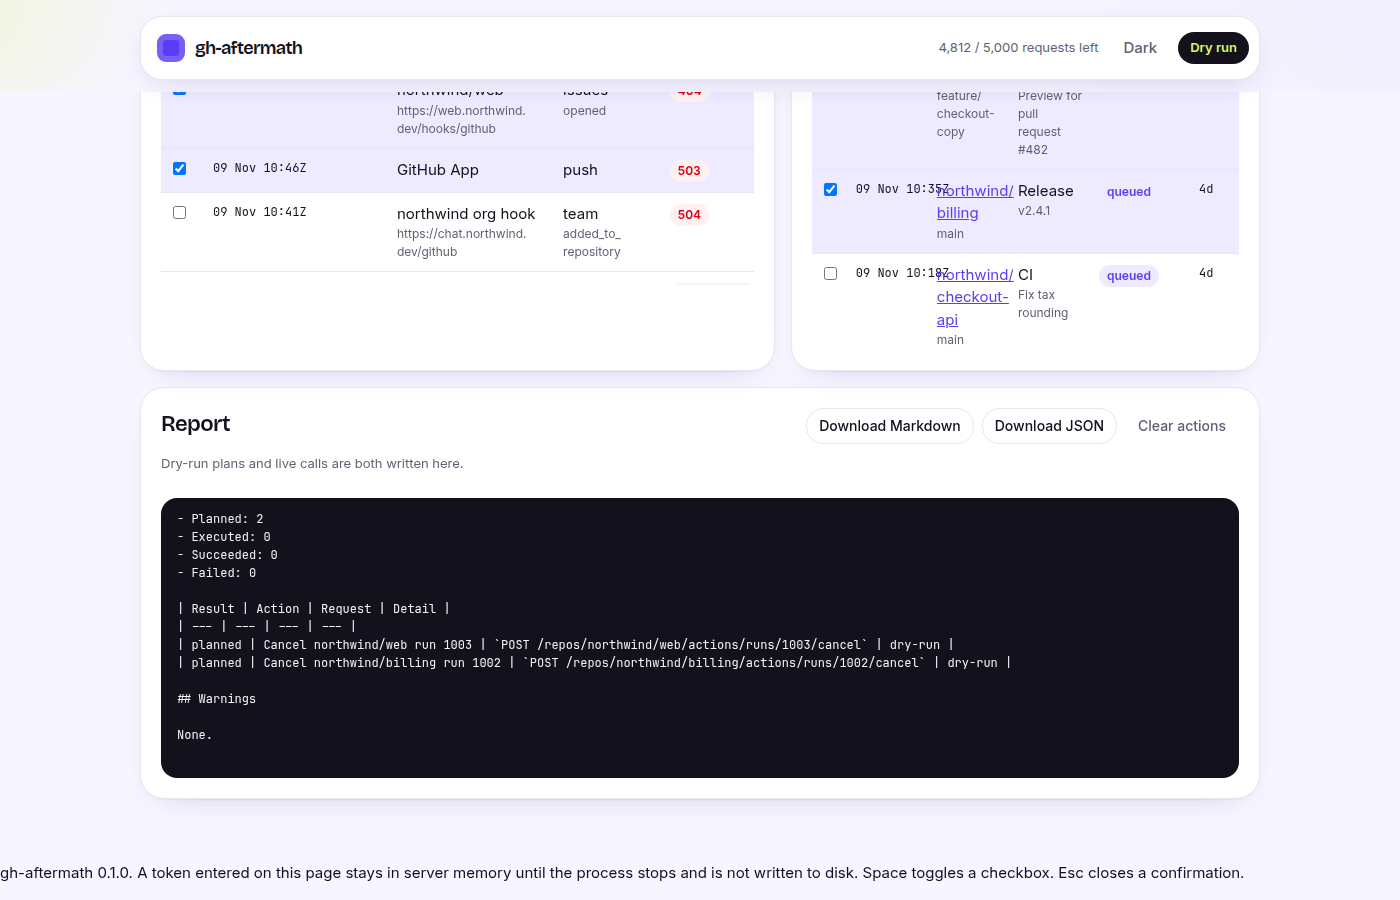
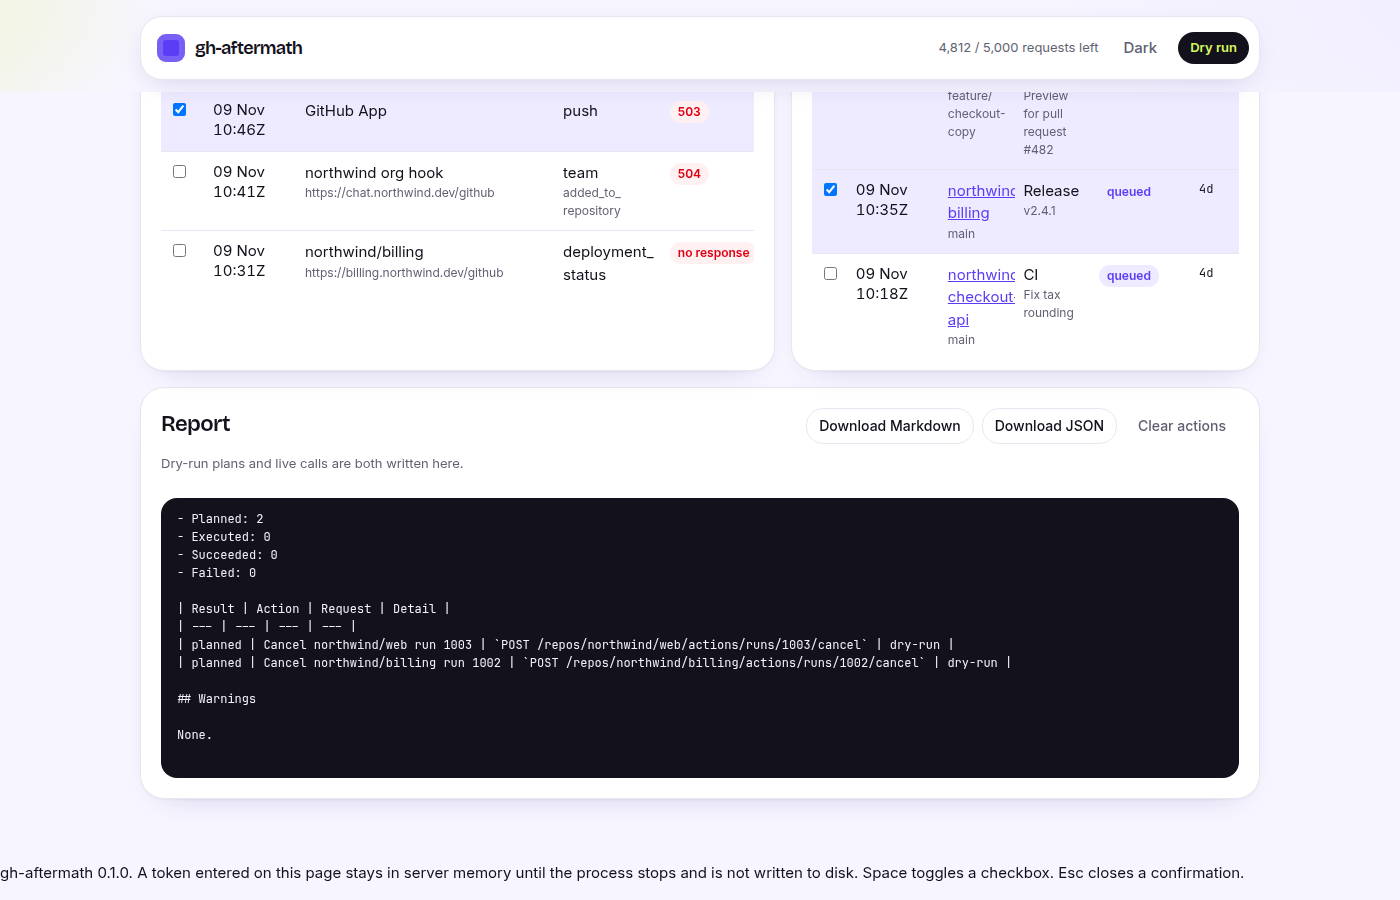
fix: keep the When column inside its cell
Stack the date and time on two lines and set a column width so the stamp no longer paints over the repository link. The stamp uses Inter's open zero.

diff --git a/src/ui/client.ts b/src/ui/client.ts
@@ -83,6 +83,17 @@ const clientProgram = `
     return formatUtcStamp(iso);
   }
 
+  function whenCell(iso) {
+    var stamp = formatTime(iso);
+    var split = stamp.lastIndexOf(" ");
+    var date = split === -1 ? stamp : stamp.slice(0, split);
+    var time = split === -1 ? "" : stamp.slice(split + 1);
+    return el("td", { className: "when" }, [
+      el("span", { className: "when-date", text: date }),
+      time ? el("span", { className: "when-time", text: time }) : null
+    ]);
+  }
+
   function formatAge(iso) {
     if (!iso) return "";
     var minutes = Math.max(0, Math.round((Date.now() - Date.parse(iso)) / 60000));
@@ -351,7 +362,7 @@ const clientProgram = `
       ]);
       var row = el("tr", { className: checked ? "selected" : "" }, [
         el("td", {}, [box]),
-        el("td", { className: "mono when", text: formatTime(delivery.deliveredAt) }),
+        whenCell(delivery.deliveredAt),
         el("td", {}, [
           el("span", { text: whereOf(delivery) }),
           delivery.targetUrl ? el("span", { className: "sub", text: softWrap(delivery.targetUrl) }) : null
@@ -400,7 +411,7 @@ const clientProgram = `
       var started = run.runStartedAt || run.createdAt;
       var link = el("a", { href: run.htmlUrl, target: "_blank", rel: "noreferrer", text: softWrap(run.owner + "/" + run.repo) });
       row.appendChild(el("td", {}, [box]));
-      row.appendChild(el("td", { className: "mono when", text: formatTime(started) }));
+      row.appendChild(whenCell(started));
       row.appendChild(el("td", {}, [link, el("span", { className: "sub", text: softWrap(run.headBranch || "") })]));
       row.appendChild(el("td", {}, [el("span", { text: softWrap(run.name) }), run.displayTitle && run.displayTitle !== run.name ? el("span", { className: "sub", text: softWrap(run.displayTitle) }) : null]));
       row.appendChild(el("td", {}, [el("span", { className: pillClass, text: run.status })]));

diff --git a/tests/a11y.test.ts b/tests/a11y.test.ts
@@ -140,6 +140,40 @@ describe("accessibility", () => {
     }
   });
 
+  it("keeps When cells from overlapping the next column", async () => {
+    const page = await openPage();
+    try {
+      await scanIncident(page);
+      const widths = [375, 768, 1280, 1400];
+      for (const width of widths) {
+        await page.setViewportSize({ width, height: 900 });
+        const overlaps = await page.evaluate(() => {
+          function box(element: Element) {
+            const rect = element.getBoundingClientRect();
+            return { left: rect.left, right: rect.right, top: rect.top, bottom: rect.bottom };
+          }
+          function hits(a: ReturnType<typeof box>, b: ReturnType<typeof box>) {
+            return a.right > b.left + 1 && a.left < b.right - 1 && a.bottom > b.top + 1 && a.top < b.bottom - 1;
+          }
+          const problems: string[] = [];
+          for (const cell of document.querySelectorAll("#deliveries-body td.when, #runs-body td.when")) {
+            const next = cell.nextElementSibling;
+            if (!(next instanceof HTMLElement)) continue;
+            if (hits(box(cell), box(next))) problems.push(`overlap ${cell.textContent?.trim()} / ${next.textContent?.trim()?.slice(0, 24)}`);
+            if (cell.scrollWidth > cell.clientWidth + 1) problems.push(`clipped ${cell.textContent?.trim()}`);
+            for (const part of cell.querySelectorAll(".when-date, .when-time")) {
+              if (part.scrollWidth > part.clientWidth + 1) problems.push(`part clipped ${part.textContent?.trim()}`);
+            }
+          }
+          return problems;
+        });
+        expect(overlaps, `${width}px`).toEqual([]);
+      }
+    } finally {
+      await page.close();
+    }
+  });
+
   it("has no serious or critical WCAG 2.1 AA violations in light or dark", async () => {
     const page = await openPage();
     try {

diff --git a/src/ui/styles.ts b/src/ui/styles.ts
@@ -300,7 +300,7 @@ svg#timeline { width: 100%; height: 78px; display: block; margin-top: 8px; }
 .lane { fill: var(--muted-foreground); font-size: 11px; font-family: var(--font-body); }
 .tick-delivery { fill: var(--primary); }
 .tick-run { fill: var(--sky); }
-.times { display: flex; justify-content: space-between; color: var(--muted-foreground); font-family: var(--font-mono); font-size: 12px; }
+.times { display: flex; justify-content: space-between; color: var(--muted-foreground); font-family: Inter, var(--font-body), sans-serif; font-size: 12px; font-variant-numeric: tabular-nums lining-nums; }
 .boards { display: grid; grid-template-columns: 1.15fr 0.85fr; gap: 16px; min-width: 0; }
 .boards > * { min-width: 0; }
 .count { color: var(--muted-foreground); font-family: var(--font-body); font-weight: 500; font-size: 16px; letter-spacing: 0; }
@@ -308,8 +308,15 @@ svg#timeline { width: 100%; height: 78px; display: block; margin-top: 8px; }
 table { width: 100%; border-collapse: collapse; }
 .deliveries { table-layout: fixed; }
 .deliveries th:nth-child(1) { width: 2.75rem; }
-.deliveries th:nth-child(2) { width: 11.5rem; }
-.table-scroll td.when { white-space: nowrap; font-variant-numeric: tabular-nums; }
+.deliveries th:nth-child(2),
+.runs th:nth-child(2) { width: 5.75rem; }
+td.when {
+  font-family: Inter, var(--font-body), sans-serif;
+  font-variant-numeric: tabular-nums lining-nums;
+  font-feature-settings: "tnum" 1;
+}
+.when-date, .when-time { display: block; white-space: nowrap; line-height: 1.35; }
+.boards td { overflow: hidden; }
 .deliveries th:nth-child(4) { width: 18%; }
 .deliveries th:nth-child(5) { width: 5.75rem; }
 .runs { table-layout: fixed; width: 100%; }
